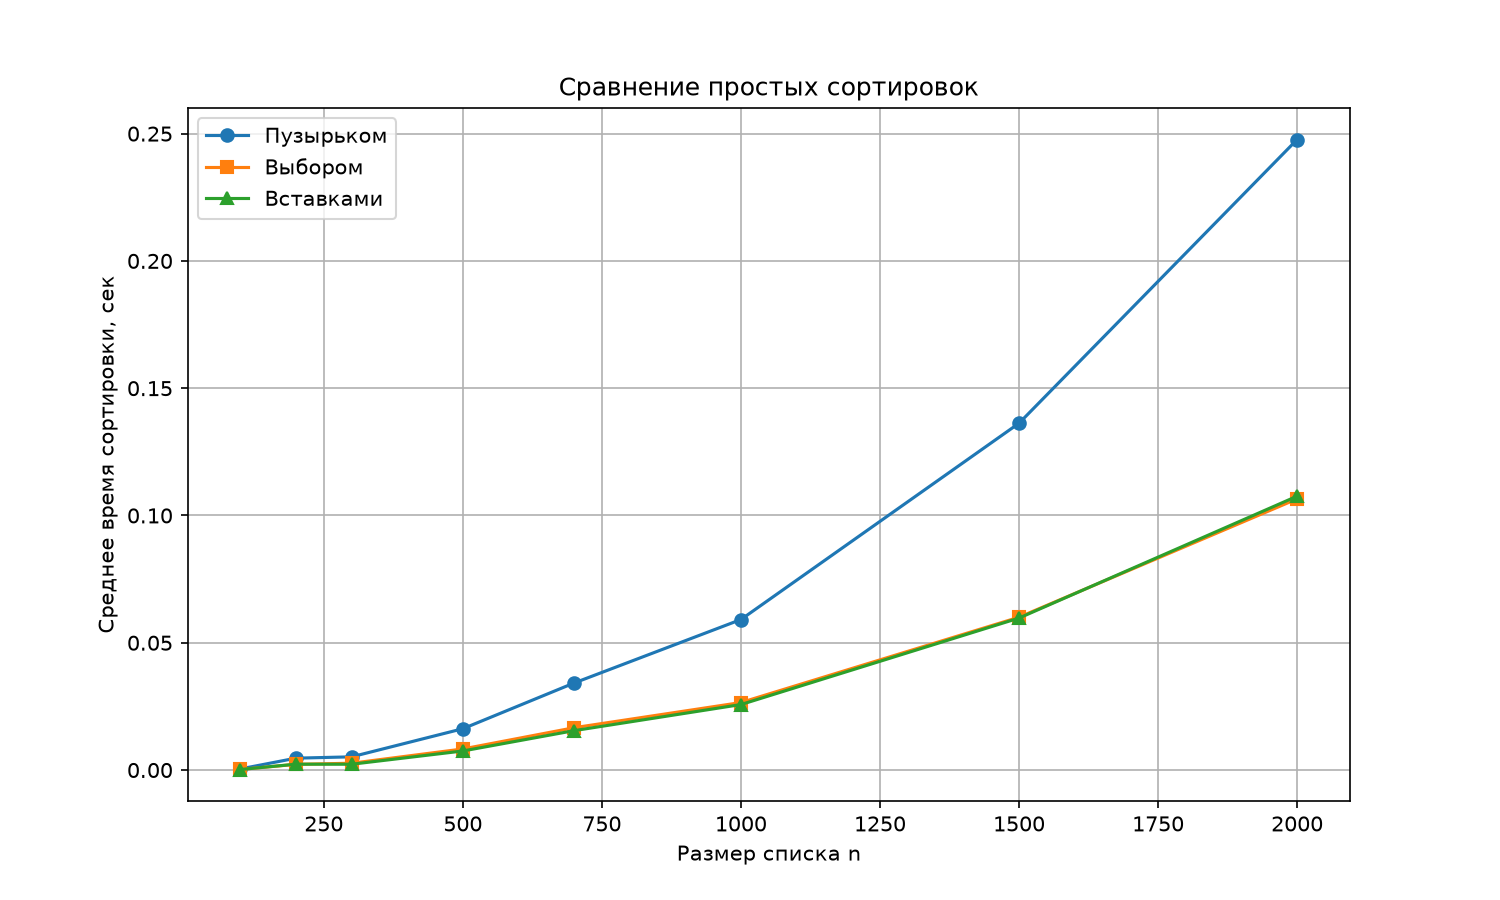
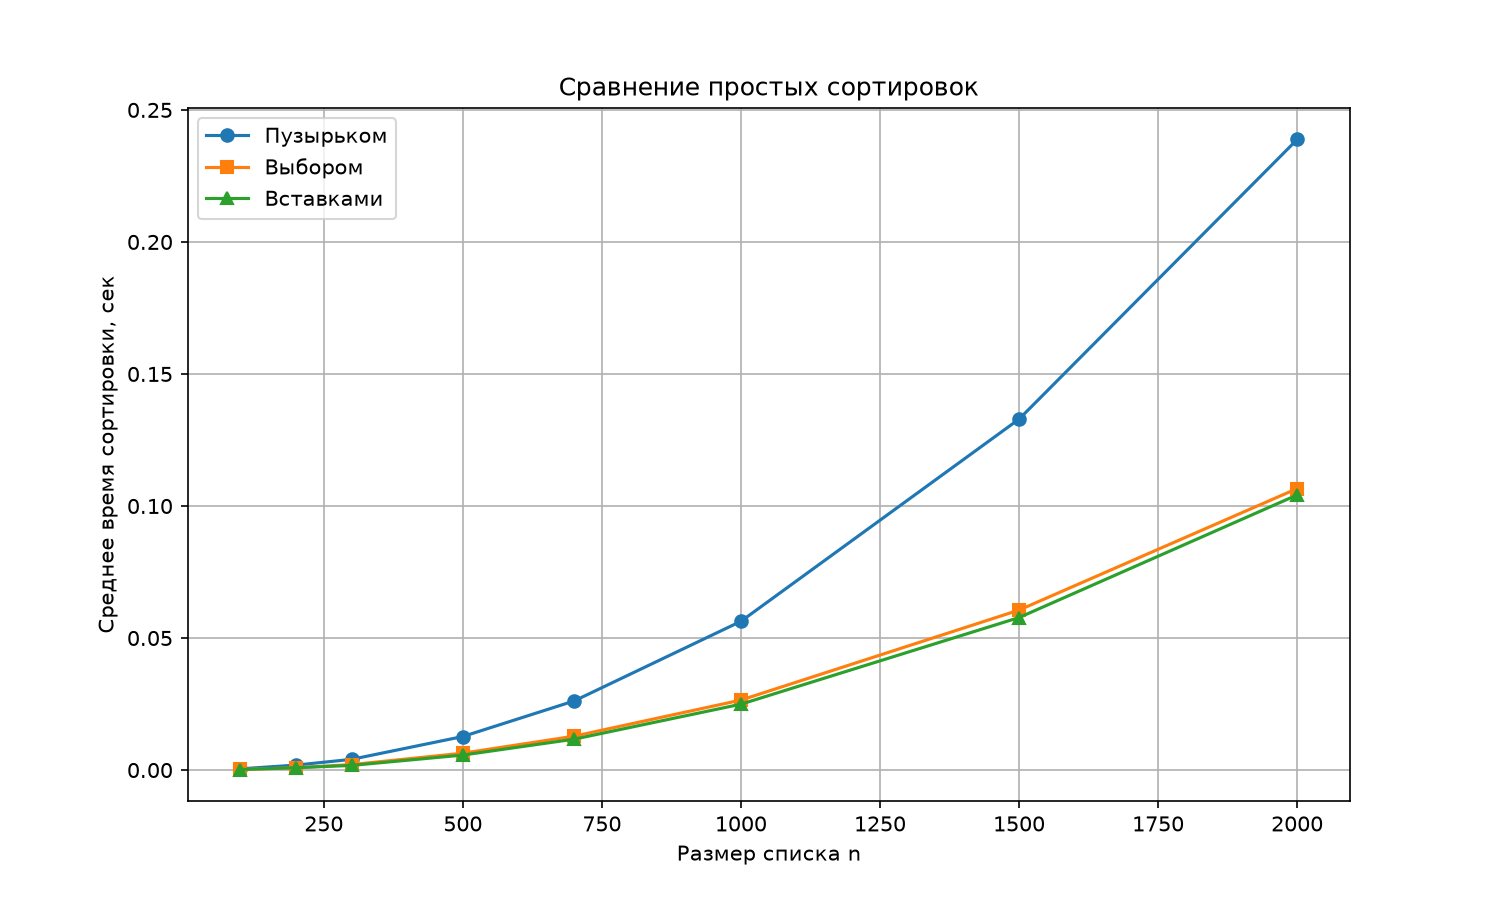
Добавлены результаты замеров и график

diff --git a/experiments.py b/experiments.py
@@ -36,6 +36,7 @@ def main():
 
         print(f"n={n:5d} | bubble={bt:.5f} c | selection={st:.5f} c | insertion={it:.5f} c")
 
+    # График
     plt.figure(figsize=(10, 6))
     plt.plot(sizes, bubble_times, marker="o", label="Пузырьком")
     plt.plot(sizes, selection_times, marker="s", label="Выбором")
@@ -48,6 +49,16 @@ def main():
     plt.savefig("sorting_comparison.png", dpi=150)
     plt.show()
 
+    # Markdown-таблица в файл (UTF-8)
+    lines = ["| n | Пузырьком, с | Выбором, с | Вставками, с |",
+             "|---|---|---|---|"]
+    for n, bt, st, it in zip(sizes, bubble_times, selection_times, insertion_times):
+        lines.append(f"| {n} | {bt:.5f} | {st:.5f} | {it:.5f} |")
+
+    with open("results.md", "w", encoding="utf-8") as f:
+        f.write("\n".join(lines))
+
+    print("\nТаблица сохранена в results.md")
 
 if __name__ == "__main__":
     main()

diff --git a/README.md b/README.md
@@ -30,9 +30,14 @@
 
 | n | Пузырьком, с | Выбором, с | Вставками, с |
 |---|---|---|---|
-| 100 | ... | ... | ... |
-| 200 | ... | ... | ... |
-| ... | ... | ... | ... |
+| 100 | 0.00046 | 0.00023 | 0.00021 |
+| 200 | 0.00187 | 0.00086 | 0.00088 |
+| 300 | 0.00405 | 0.00207 | 0.00175 |
+| 500 | 0.01270 | 0.00639 | 0.00568 |
+| 700 | 0.02616 | 0.01282 | 0.01169 |
+| 1000 | 0.05633 | 0.02650 | 0.02494 |
+| 1500 | 0.13290 | 0.06058 | 0.05775 |
+| 2000 | 0.23880 | 0.10660 | 0.10419 |
 
 ![График](sorting_comparison.png)
 
